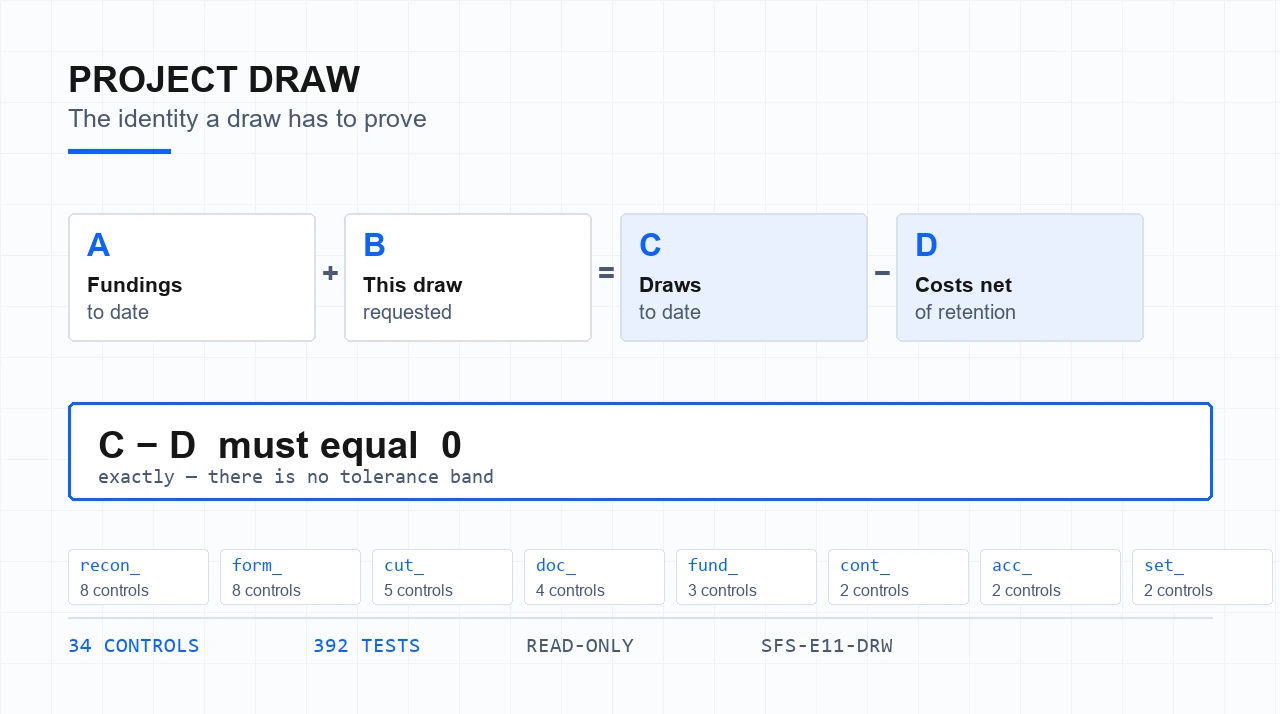
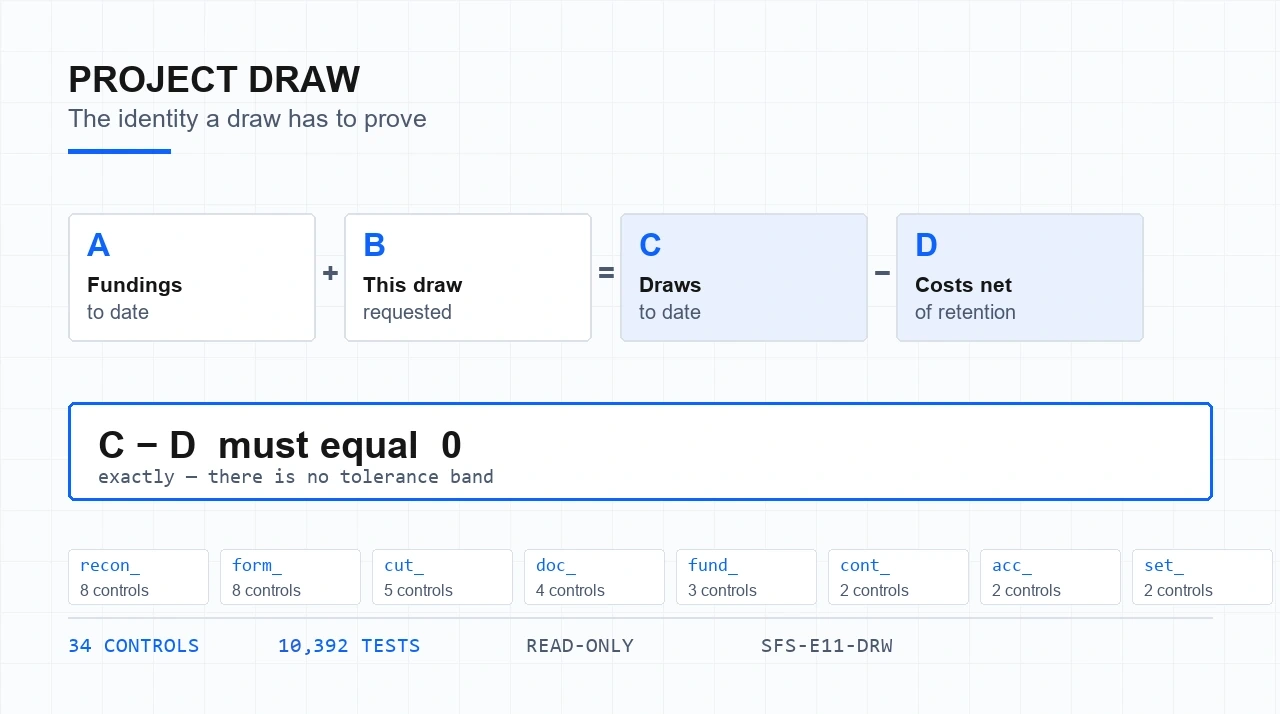
fix: correct the four raster tile footers and gate them against counts.json
The draw, upgrade, warranty and intercompany tiles rendered 392 / 279 / 299 /
310 tests where counts.json pins 10,392 / 10,279 / 10,299 / 10,310 -- the same
10,000-short defect already fixed in the twenty-four vector tiles, authored
before each engine gained its invariant grid. The intercompany tile also
contradicted its own alt text, which already read 10,310 tests.

These are lossy renders with no vector source, so the footers were repainted.
No installed monospace matches the render closely enough to fake (Consolas
scores best at IoU 0.73), so each glyph is harvested from the tiles themselves
at the same size, colour and antialiasing; only the comma, which appears
nowhere in any footer, comes from Consolas at the matched cap height. Three
tiles had a wide clean gap left of the number and take the prefix without
disturbing an original pixel. The intercompany footer had room on neither
side, so its line was rebuilt: text lifted to an alpha matte and laid back
over a per-column background plate, with two fields shifted by whole
character cells.

The vector guard could not cover pixels, so raster_footers.json now pins each
footer's figures to the bytes they were read from, and test_raster_footers.py
fails from both directions: if a count moves the artwork is named as stale, and
if the artwork changes it cannot inherit the old verification. Both mutants were
confirmed to fail before the fix was pinned.
[…]

Changed region(s): [[0.2188, 0.8936, 0.3125, 0.9244], [0.0625, 0.8936, 0.1562, 0.9244]]

diff --git a/docs/tests/index.html b/docs/tests/index.html
@@ -158,7 +158,7 @@
       <div class="stat">
         <b>463,860</b>
         <span class="cap">tests in the curated suite &mdash; runs in minutes and gates every CI build</span>
-        <span class="src">pytest --collect-only -m &quot;not site_tooling&quot; &middot; verified 2026-07-24</span>
+        <span class="src">pytest --collect-only -m &quot;not site_tooling&quot; &middot; verified 2026-07-25</span>
       </div>
       <div class="stat">
         <b>~1.65M</b>
@@ -453,7 +453,7 @@
           <tr>
             <td><span class="eng">Site datasheet tooling &mdash; separate guard suite</span><span class="sub">generator, schema, freshness, accessibility, and page-budget guards &middot; excluded from the curated engine total above</span></td>
             <td><a class="gh" href="https://github.com/sophonfinance-wq/finance-automation-portfolio/tree/main/site-datasheets/datasheet_tests" target="_blank" rel="noopener">site-datasheets/datasheet_tests &rarr;</a></td>
-            <td class="num">54</td>
+            <td class="num">58</td>
           </tr>
         </tbody>
       </table>
@@ -477,7 +477,7 @@
         <p>Exhaustive <code>itertools.product</code> grids asserting sum-preservation, exact integer round-trips, arithmetic identities and determinism across the full integer input domain. Runs on demand with <code>SWEEP=1 pytest -m &quot;not site_tooling&quot;</code> &mdash; kept out of the default suite for speed.</p>
       </div>
     </div>
-    <p class="note">A separate 54-test <code>site_tooling</code> suite validates the datasheet generator, schemas, freshness, accessibility, and page budgets. Run it with <code>pytest -m site_tooling</code>; it is deliberately excluded from the 463,860 curated engine total. Every public example runs on fictional data &mdash; enforced by a deny-list confidentiality linter that is itself part of the engine test suite. Client information never appears in public code.</p>
+    <p class="note">A separate 58-test <code>site_tooling</code> suite validates the datasheet generator, schemas, freshness, accessibility, page budgets, and that every tile&rsquo;s rendered footer figure &mdash; vector and raster &mdash; still matches the pinned count. Run it with <code>pytest -m site_tooling</code>; it is deliberately excluded from the 463,860 curated engine total. Every public example runs on fictional data &mdash; enforced by a deny-list confidentiality linter that is itself part of the engine test suite. Client information never appears in public code.</p>
   </div>
 </section>
 

diff --git a/site-datasheets/datasheet_tests/test_raster_footers.py b/site-datasheets/datasheet_tests/test_raster_footers.py
@@ -1,0 +1,95 @@
+"""The four raster tile footers stay tied to the figures they render.
+
+`test_tile_footers.py` compares every *vector* tile's footer to counts.json, and
+that guard caught twenty-four tiles rendering a figure 10,000 short. It could not
+cover the four `.webp` diagrams -- draw, upgrade, warranty and intercompany -- whose
+footers are pixels, and all four were carrying the same defect unnoticed: 392 /
+279 / 299 / 310 where counts.json said 10,392 / 10,279 / 10,299 / 10,310. The
+intercompany tile even contradicted its own alt text, which already said 10,310.
+
+Pixels cannot be parsed, but the drift can still be gated. `raster_footers.json`
+records the figures read off each corrected tile together with the bytes they were
+read from, which closes the loop from both directions:
+
+* a count moves in counts.json and the artwork is not re-rendered -> the figure
+  assertion fails, naming the tile that now lies;
+* the artwork is re-rendered and nobody re-reads the footer -> the digest
+  assertion fails, so the new pixels cannot inherit the old verification.
+
+Neither can be satisfied by editing one file alone, which is the point: the only
+way through is to re-render the tile and re-read its footer.
+"""
+from __future__ import annotations
+
+import hashlib
+import json
+
+import generate_datasheets as gen
+
+from datasheet_tests.conftest import ROSTER
+
+COUNTS = json.loads((gen.ROOT / "counts.json").read_text(encoding="utf-8"))
+PINS = json.loads((gen.ROOT / "raster_footers.json").read_text(encoding="utf-8"))["tiles"]
+
+#: The tiles whose footers are baked into pixels. Kept explicit rather than derived:
+#: a new raster tile should have to be added here deliberately, not slip in unchecked.
+RASTER_SLUGS = ("draw", "upgrade", "warranty", "intercompany")
+
+
+def _asset(slug: str):
+    # OUT_DIR is docs/engines; the shared artwork sits one level up in docs/assets.
+    return gen.REPO / "docs" / "assets" / PINS[slug]["asset"]
+
+
+def test_every_raster_tile_is_pinned() -> None:
+    """No raster tile escapes the manifest, and the manifest invents none."""
+    assert set(PINS) == set(RASTER_SLUGS), (
+        "raster_footers.json and RASTER_SLUGS disagree", sorted(PINS), sorted(RASTER_SLUGS)
+    )
+    for slug in RASTER_SLUGS:
+        assert _asset(slug).exists(), f"{slug}: pinned asset {_asset(slug)} is missing"
+
+
+def test_pinned_raster_figures_still_match_counts_json() -> None:
+    """The figure burnt into each tile is the one counts.json pins.
+
+    This is the assertion the vector guard could not make. It fails the moment an
+    engine's test count moves, which is exactly when the artwork goes stale.
+    """
+    problems: list[str] = []
+    for slug in RASTER_SLUGS:
+        want = COUNTS[slug]["tests"]
+        got = PINS[slug]["tests"]
+        if got != want:
+            problems.append(
+                f"{slug}: tile renders {got:,} tests but counts.json says {want:,} "
+                f"-- re-render docs/assets/{PINS[slug]['asset']} and re-pin it"
+            )
+    assert not problems, "raster tile footers out of date:\n  " + "\n  ".join(problems)
+
+
+def test_pinned_raster_part_numbers_match_the_roster() -> None:
+    """The part number in the artwork matches the roster's, so renumbering is caught."""
+    for slug in RASTER_SLUGS:
+        assert PINS[slug]["part_no"] == ROSTER[slug]["part_no"], (
+            f"{slug}: tile renders {PINS[slug]['part_no']}, "
+            f"roster says {ROSTER[slug]['part_no']}"
+        )
+
+
+def test_pinned_raster_bytes_are_the_bytes_that_were_read() -> None:
+    """A re-rendered tile cannot inherit the previous footer verification.
+
+    Without this the figure check above would be worthless: someone could replace
+    the artwork with anything and the manifest would keep vouching for it.
+    """
+    problems: list[str] = []
+    for slug in RASTER_SLUGS:
+        digest = hashlib.sha256(_asset(slug).read_bytes()).hexdigest()
+        if digest != PINS[slug]["sha256"]:
+            problems.append(
+                f"{slug}: {PINS[slug]['asset']} has changed since its footer was read "
+                f"(sha256 {digest[:12]}..., pinned {PINS[slug]['sha256'][:12]}...) "
+                f"-- re-read the footer and update raster_footers.json"
+            )
+    assert not problems, "raster artwork changed without re-verification:\n  " + "\n  ".join(problems)

diff --git a/site-datasheets/datasheet_tests/test_tile_footers.py b/site-datasheets/datasheet_tests/test_tile_footers.py
@@ -9,7 +9,9 @@ page but never the artwork the spec points at.
 
 Scope note: this can only cover vector tiles. The four raster `.webp` diagrams
 (draw, upgrade, warranty, intercompany) carry the same figure in pixels and cannot
-be parsed, so they need a line in the release checklist instead.
+be parsed -- and all four turned out to carry the same 10,000-short defect. They are
+gated instead by `test_raster_footers.py`, which pins each footer's figures to the
+bytes they were read from.
 """
 from __future__ import annotations
 

diff --git a/README.md b/README.md
@@ -62,7 +62,7 @@ cd tax-surplus-engine && python -m surplus_engine --start 2021 --end 2024 --out 
 ```
 > An entity contributes capital in 2023 and returns it in 2024. USD ACB nets to **$0**, and a single blended rate says CAD ACB is **$0** too — but translating each layer at its own year's rate gives **CAD $(660.35)**. The sign flips (ITA 261 / Reg. 5907). The harness checks **15 named reconciliation identities**; `--check` exits non-zero on any break.
 
-**3. Honest, tiered tests.** `pytest -m "not site_tooling"` runs the curated suite (463,860 cases, gates CI); `SWEEP=1 pytest -m "not site_tooling"` runs an exhaustive property sweep (~1.65M generated cases). A separate 54-test site-tooling suite validates the generated public datasheets. See [Testing](#testing).
+**3. Honest, tiered tests.** `pytest -m "not site_tooling"` runs the curated suite (463,860 cases, gates CI); `SWEEP=1 pytest -m "not site_tooling"` runs an exhaustive property sweep (~1.65M generated cases). A separate 58-test site-tooling suite validates the generated public datasheets. See [Testing](#testing).
 
 **4. Ten close controls, each proven against its own failure mode.** Inject twelve classic month-end errors — each mapped to the control that must catch it — and watch the sentinel catch every one:
 ```bash
@@ -175,7 +175,7 @@ demand:
 |---|---|---:|---|
 | **Behaviour tests** (gates CI) | `pytest -m "not site_tooling"` | **31,883** | Unit + behavior tests, each asserting a real domain property — waterfall sum-preservation, tie-out recompute from first principles — across all 47 systems. This is the curated total less the bounded invariant grids below (`5,812` distinct test functions before parametrization). Runs in minutes. |
 | ↳ plus the bounded invariant grids | *(same scoped `pytest` run)* | **463,860** | Adds `431,977` grid cases — every recent engine ships a `test_invariant_grid_10k.py` over its money kernel, plus per-engine `test_curated_invariant_grid.py` — so each property is checked across a bounded integer domain (`itertools.product`). |
-| **Site tooling** (separate guard suite) | `pytest -m site_tooling` | **54** | Generator, schema, freshness, accessibility, and page-budget guards. Excluded from the 463,860 curated engine total. |
+| **Site tooling** (separate guard suite) | `pytest -m site_tooling` | **58** | Generator, schema, freshness, accessibility, page-budget, and tile-footer guards (vector and raster). Excluded from the 463,860 curated engine total. |
 | **Property sweep** (opt-in) | `SWEEP=1 pytest -m "not site_tooling"` | **~1.65M** | Exhaustive `itertools.product` grids asserting sum-preservation, exact integer round-trips, arithmetic identities, frozen-dataclass round-trips, and determinism across the full integer input domain. |
 
 Every test calls real engine code and asserts a true property. The sweep is excluded from the
